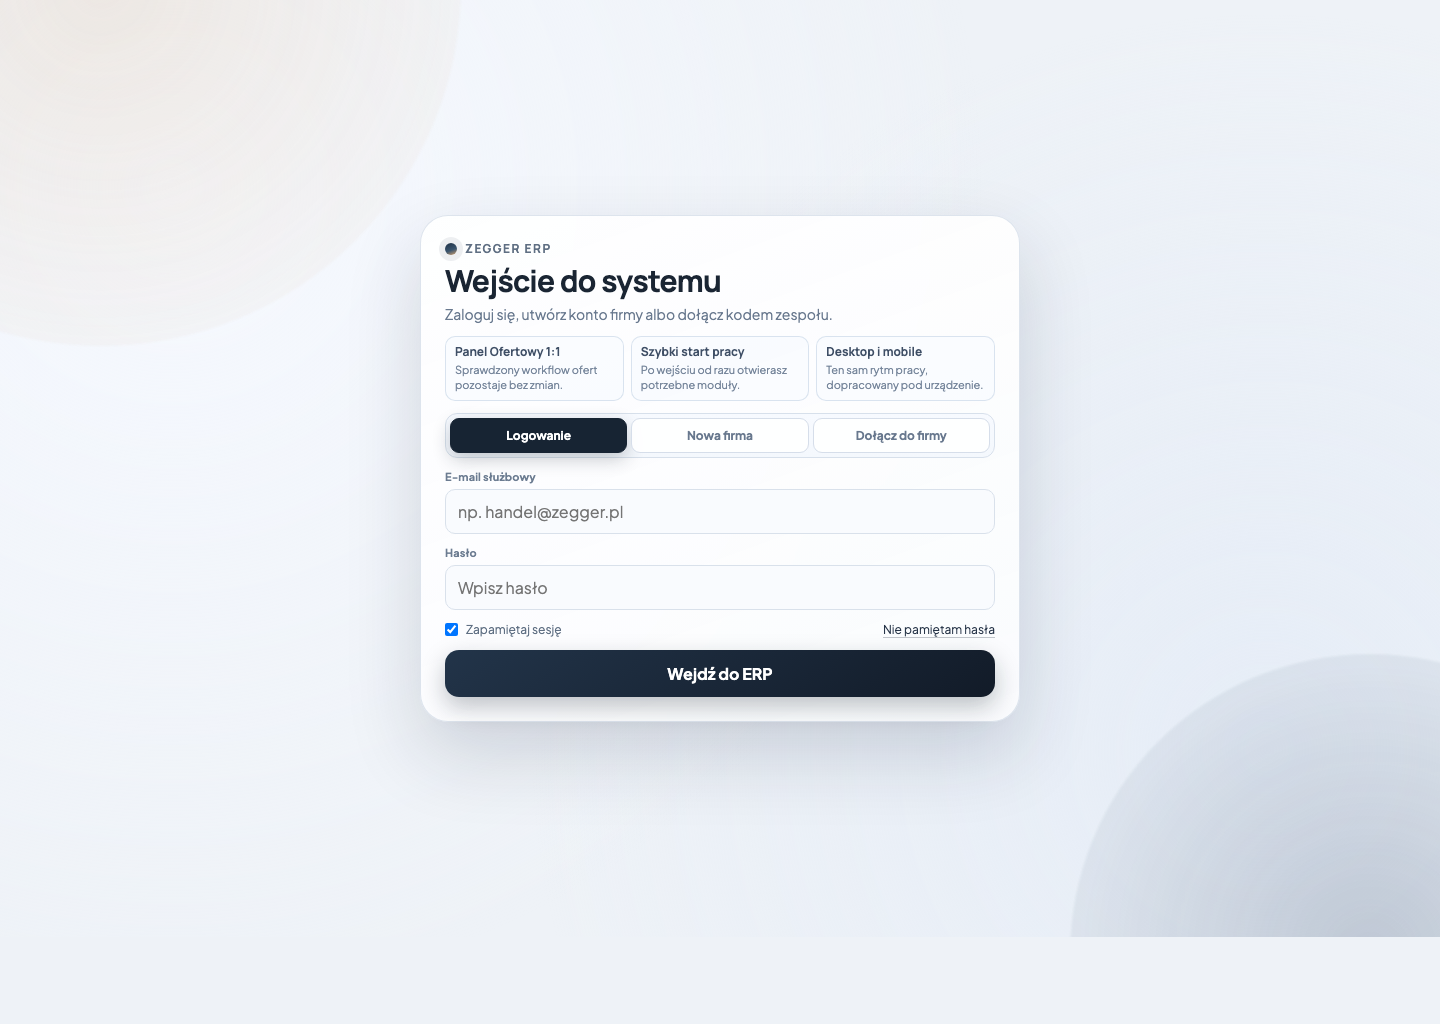
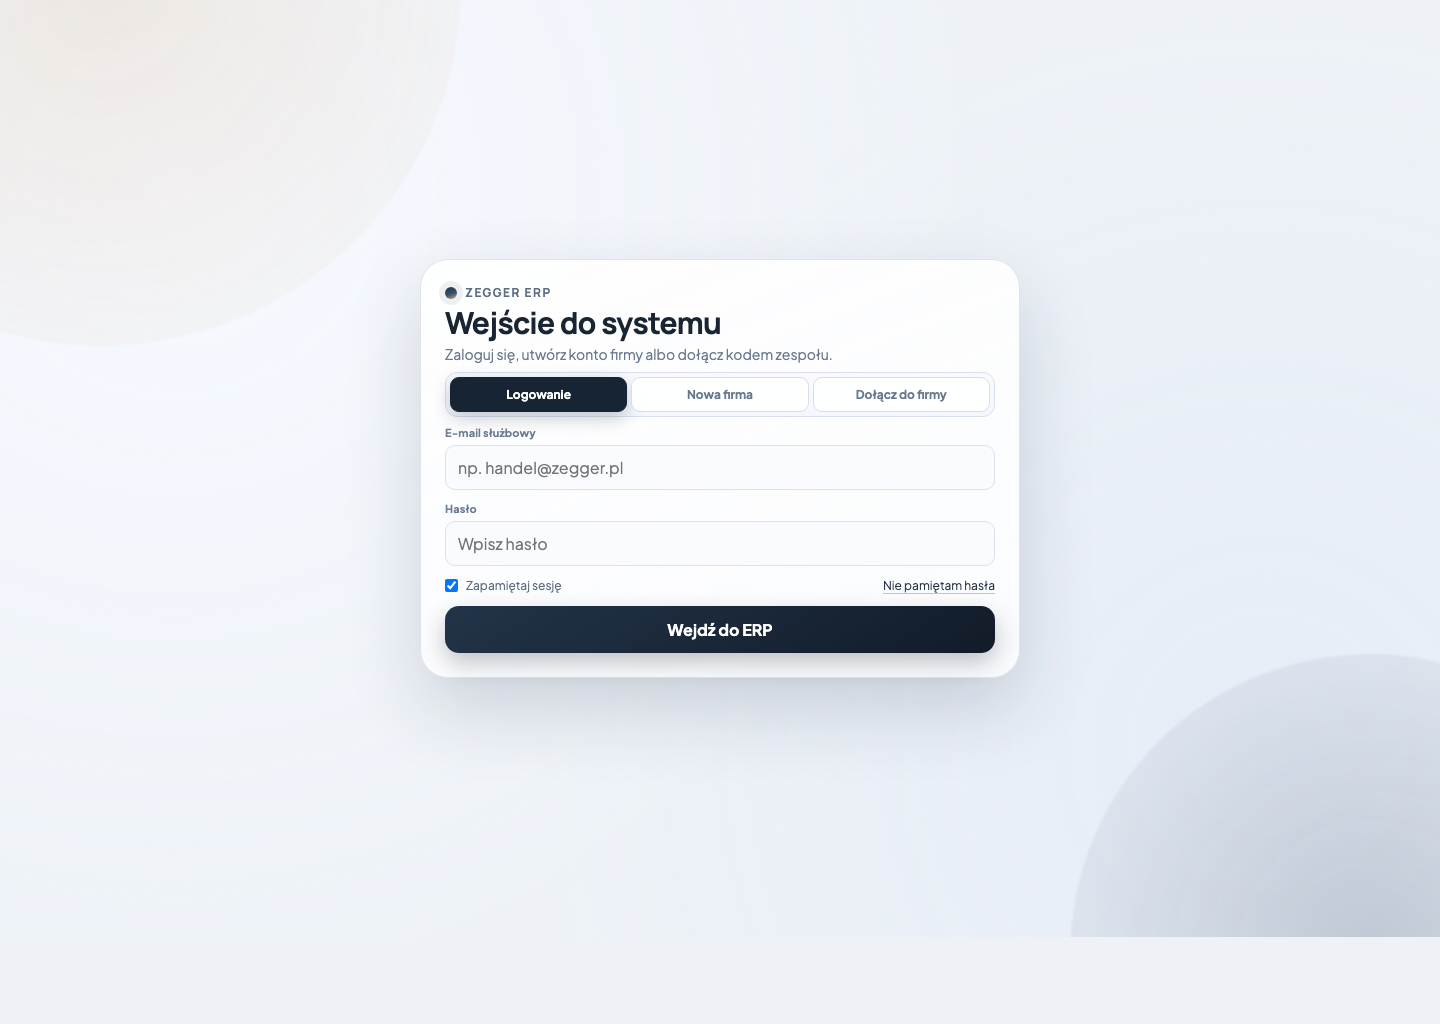
v10

Changed region(s): [[0.2812, 0.2188, 0.7188, 0.6875]]

diff --git a/prototype-ui/index.html b/prototype-ui/index.html
@@ -28,21 +28,6 @@
           <p class="zgs-auth-subline">Po zalogowaniu uruchamiasz kompaktowy shell i launcher narz�dzi pracy.</p>
         </header>
 
-        <div class="zgs-auth-points" aria-label="Co otrzymujesz po zalogowaniu">
-          <article class="zgs-auth-point">
-            <h3>Panel Ofertowy 1:1</h3>
-            <p>Legacy modu� pozostaje bez przepisywania i bez zmiany flow.</p>
-          </article>
-          <article class="zgs-auth-point">
-            <h3>Launcher roboczy</h3>
-            <p>Szybkie wej�cie do narz�dzi bez dashboardowego balastu.</p>
-          </article>
-          <article class="zgs-auth-point">
-            <h3>Desktop + mobile</h3>
-            <p>Wsp�lny rytm pracy, osobno dopracowany dla telefonu.</p>
-          </article>
-        </div>
-
         <div class="zgs-auth-tabs" role="tablist" aria-label="Tryb autoryzacji">
           <button id="zgs-tab-login" class="zgs-tab is-active" role="tab" aria-selected="true" aria-controls="zgs-panel-login" type="button" data-auth-tab="login">Logowanie</button>
           <button id="zgs-tab-company" class="zgs-tab" role="tab" aria-selected="false" aria-controls="zgs-panel-company" type="button" data-auth-tab="company-register">Nowa firma</button>
@@ -79,6 +64,10 @@
             <label class="zgs-field" for="zgs-company-nip">
               <span>NIP</span>
               <input id="zgs-company-nip" name="nip" type="text" inputmode="numeric" placeholder="000-000-00-00">
+            </label>
+            <label class="zgs-field" for="zgs-company-address">
+              <span>Adres firmy</span>
+              <input id="zgs-company-address" name="company_address" type="text" autocomplete="street-address" placeholder="np. ul. Przemysłowa 12, Warszawa">
             </label>
             <label class="zgs-field" for="zgs-company-contact">
               <span>Osoba kontaktowa</span>

diff --git a/prototype-ui/assets/css/prototype.css b/prototype-ui/assets/css/prototype.css
@@ -97,12 +97,12 @@ textarea {
   backdrop-filter: blur(11px);
   box-shadow: var(--zgs-shadow-lg);
   display: grid;
-  gap: 12px;
+  gap: 9px;
 }
 
 .zgs-auth-head {
   display: grid;
-  gap: 8px;
+  gap: 6px;
 }
 
 .zgs-brand-lockup {
@@ -136,37 +136,9 @@ textarea {
 }
 
 .zgs-auth-subline {
-  max-width: 40ch;
+  max-width: 38ch;
   color: #69798f;
   font-size: clamp(13px, 2.4vw, 14px);
-  line-height: 1.35;
-}
-
-.zgs-auth-points {
-  display: grid;
-  grid-template-columns: repeat(3, minmax(0, 1fr));
-  gap: 7px;
-}
-
-.zgs-auth-point {
-  border: 1px solid rgba(212, 223, 236, 0.86);
-  border-radius: 10px;
-  background: rgba(247, 250, 255, 0.68);
-  padding: 8px 9px;
-  display: grid;
-  gap: 4px;
-}
-
-.zgs-auth-point h3 {
-  font-family: "Manrope", "Segoe UI", Arial, sans-serif;
-  font-size: 12px;
-  line-height: 1.2;
-  color: #3f4f66;
-}
-
-.zgs-auth-point p {
-  color: #77879c;
-  font-size: 11px;
   line-height: 1.3;
 }
 
@@ -1106,7 +1078,7 @@ textarea {
   .zgs-auth-card {
     width: 100%;
     border-radius: 18px;
-    gap: 10px;
+    gap: 8px;
     padding: 14px;
   }
 
@@ -1118,21 +1090,6 @@ textarea {
     grid-template-columns: repeat(3, minmax(0, 1fr));
     gap: 3px;
     padding: 3px;
-  }
-
-  .zgs-auth-points {
-    display: flex;
-    gap: 6px;
-    overflow-x: auto;
-    padding-bottom: 2px;
-    scroll-snap-type: x proximity;
-    -webkit-overflow-scrolling: touch;
-  }
-
-  .zgs-auth-point {
-    flex: 1 0 145px;
-    min-width: 145px;
-    scroll-snap-align: start;
   }
 
   .zgs-tab {

diff --git a/prototype-ui/assets/js/app.js b/prototype-ui/assets/js/app.js
@@ -83,6 +83,8 @@
         return "current-password";
       case "company_name":
         return "organization";
+      case "company_address":
+        return "street-address";
       case "contact_name":
         return "name";
       case "phone":
@@ -139,7 +141,6 @@
   function renderAuth() {
     var heroTitle = authData.heroTitle || "";
     var heroText = authData.heroText || "";
-    var cards = Array.isArray(authData.infoCards) ? authData.infoCards : [];
     var tabs = Array.isArray(authData.tabs) ? authData.tabs : [];
 
     var authHead = document.querySelector(".zgs-auth-head");
@@ -151,20 +152,6 @@
         "</div>" +
         "<h1>" + esc(heroTitle) + "</h1>" +
         '<p class="zgs-auth-subline">' + esc(heroText) + "</p>";
-    }
-
-    var authPoints = document.querySelector(".zgs-auth-points");
-    if (authPoints) {
-      authPoints.innerHTML = cards
-        .map(function (card) {
-          return (
-            '<article class="zgs-auth-point">' +
-              "<h3>" + esc(card.title) + "</h3>" +
-              "<p>" + esc(card.text) + "</p>" +
-            "</article>"
-          );
-        })
-        .join("");
     }
 
     tabs.forEach(function (tab) {

diff --git a/prototype-ui/assets/js/mock-data.js b/prototype-ui/assets/js/mock-data.js
@@ -64,6 +64,7 @@
         fields: [
           { key: "company_name", label: "Nazwa firmy", placeholder: "np. Zegger Partner Sp. z o.o." },
           { key: "nip", label: "NIP", placeholder: "000-000-00-00" },
+          { key: "company_address", label: "Adres firmy", placeholder: "np. ul. Przemysłowa 12, Warszawa" },
           { key: "contact_name", label: "Osoba kontaktowa", placeholder: "Imię i nazwisko" },
           { key: "email", label: "E-mail", placeholder: "biuro@firma.pl" },
           { key: "phone", label: "Telefon", placeholder: "+48 000 000 000" },
